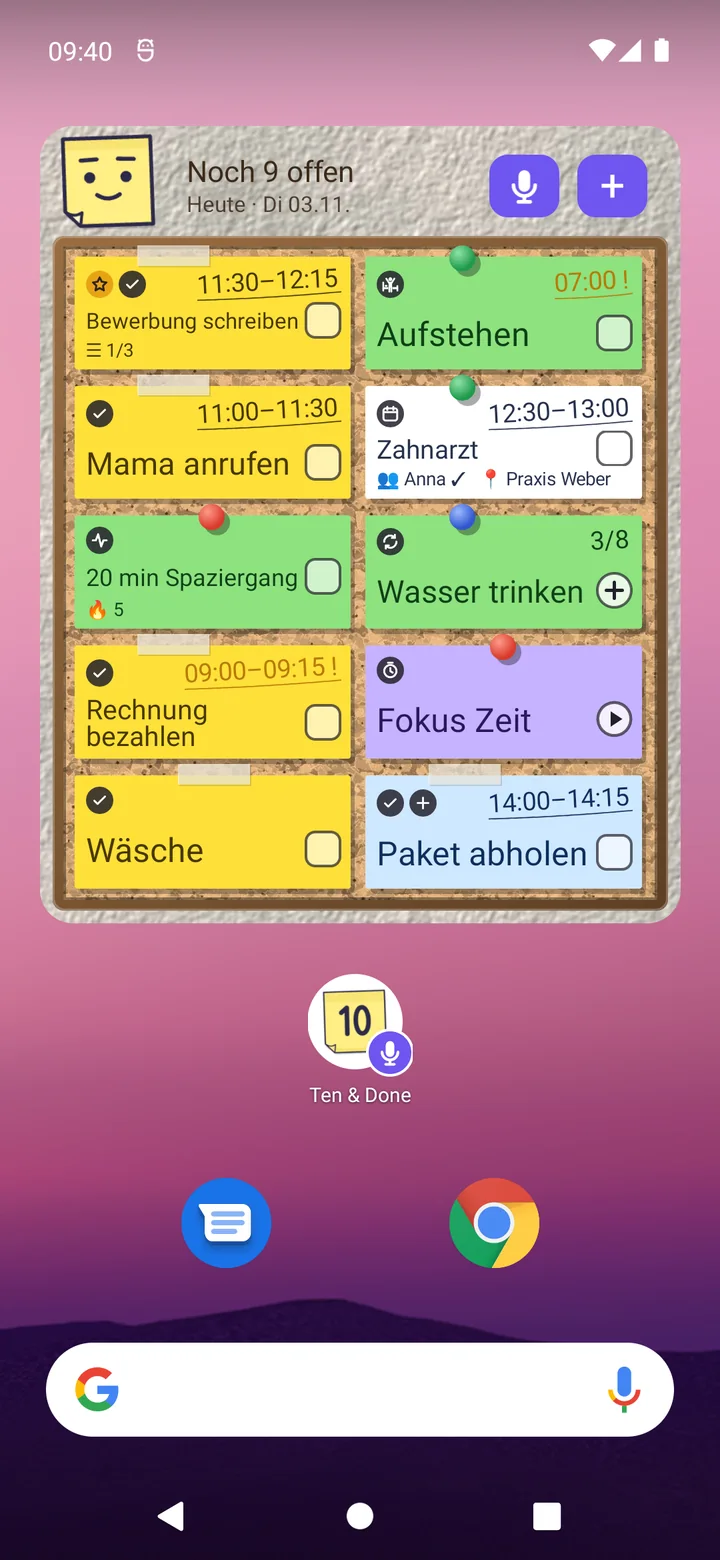
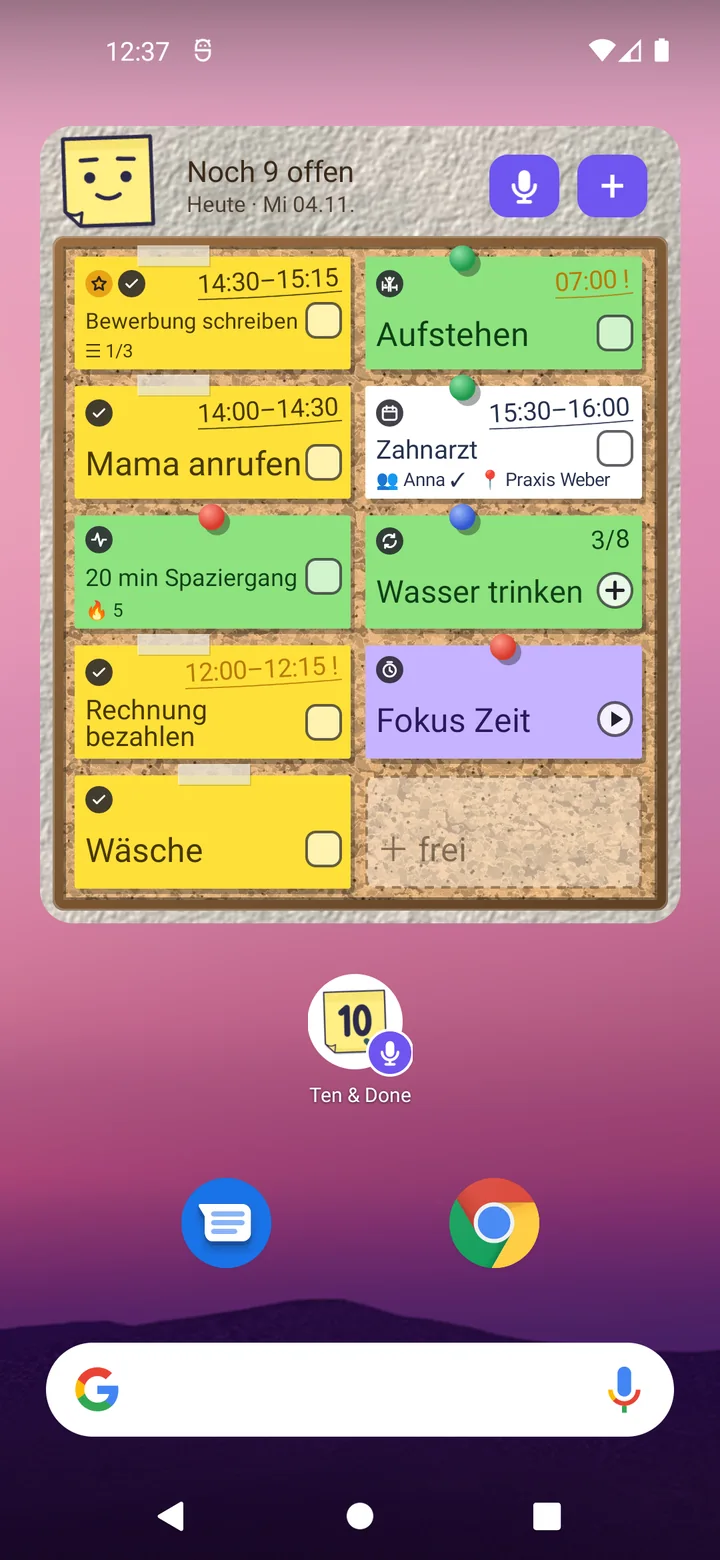
Mikrofon-Satz fuer Android und iPhone, Widget-Bilder ohne Extra, Schriftart und Farben bei den Stilen

diff --git a/index.html b/index.html
@@ -53,7 +53,7 @@
     { "@type": "Question", "name": "Warum genau zehn Aufgaben am Tag?", "acceptedAnswer": { "@type": "Answer", "text": "Weil eine Liste ohne Ende nie fertig wird. Zehn Plätze geben jedem Tag dasselbe Ziel: Zehn von zehn heißt fertig. Zehn passen auf einen Bildschirm, alles andere wartet auf dem Parkplatz, und die Zettel dürfen so klein sein, wie es dir heute passt." } },
     { "@type": "Question", "name": "Kostet Ten & Done etwas?", "acceptedAnswer": { "@type": "Answer", "text": "Der Kern ist frei: 10 Aufgaben am Tag, Gewohnheiten, Fokus Zeit, Kalender, Listen, Notizen, Widget und der Fortschritt der Woche. Premium gibt es als Jahresabo oder zum einmaligen Kauf." } },
     { "@type": "Question", "name": "Brauche ich ein Konto?", "acceptedAnswer": { "@type": "Answer", "text": "Nein. Keine Anmeldung, keine E-Mail-Adresse. Alles liegt auf deinem Handy, die App funktioniert offline." } },
-    { "@type": "Question", "name": "Gibt es ein Widget?", "acceptedAnswer": { "@type": "Answer", "text": "Ja. Das Brett-Widget zeigt deinen Tagesplan auf dem Startbildschirm, dort kannst du auch abhaken. Auf Android-Handys nimmt ein kleines Widget neue Aufgaben per Sprache auf." } },
+    { "@type": "Question", "name": "Gibt es ein Widget?", "acceptedAnswer": { "@type": "Answer", "text": "Ja. Das Brett-Widget zeigt deinen Tagesplan auf dem Startbildschirm, dort kannst du auch abhaken. Übers Mikrofon im Widget sprichst du neue Aufgaben ein." } },
     { "@type": "Question", "name": "Gibt es Ten & Done für Android und iPhone?", "acceptedAnswer": { "@type": "Answer", "text": "Ja. Ten & Done gibt es für Android-Handys und -Tablets und für iPhone und iPad." } }
   ]
 }
@@ -143,7 +143,7 @@
         <p>Aufgaben, Gewohnheiten, Fokus und Termine liegen auf einem Brett. Was nicht gebraucht wird, bleibt aus dem Weg.</p>
       </div>
       <div class="grid2 grid3">
-        <div class="feature wide"><span class="tag t-c" aria-hidden="true">🎙</span><div><h3>Einfach einsprechen</h3><p>Tipp aufs Mikrofon und sag, was ansteht. „Friseur am 3.11. um 13 Uhr“ wird ein Termin, „Bei Rewe Butter kaufen“ kommt auf die Einkaufsliste für Rewe und „Lena hat am 3. Mai Geburtstag“ wird ein Jahrestag. Auf Android auch ohne die App zu öffnen – mit dem Mikrofon-Widget auf dem Startbildschirm.</p></div></div>
+        <div class="feature wide"><span class="tag t-c" aria-hidden="true">🎙</span><div><h3>Einfach einsprechen</h3><p>Tipp aufs Mikrofon und sag, was ansteht. „Friseur am 3.11. um 13 Uhr“ wird ein Termin, „Bei Rewe Butter kaufen“ kommt auf die Einkaufsliste für Rewe und „Lena hat am 3. Mai Geburtstag“ wird ein Jahrestag. Am schnellsten geht es vom Startbildschirm: im Widget aufs Mikrofon tippen und lossprechen.</p></div></div>
         <div class="feature"><span class="tag t-a" aria-hidden="true">10</span><div><h3>Zehn Plätze, ein Versprechen an dich</h3><p>Der elfte Gedanke muss warten. Ein Zettel ist dein Top-Thema. Du sagst fest zu, indem du den Knopf gedrückt hältst.</p></div></div>
         <div class="feature"><span class="tag t-b" aria-hidden="true">↻</span><div><h3>Gewohnheiten-Tracker</h3><p>Sport, Wasser trinken, kein Handy im Bett: Gewohnheiten erscheinen an ihren Tagen von selbst. Mit Strichliste und Serie.</p></div></div>
         <div class="feature"><span class="tag t-f" aria-hidden="true">⏱</span><div><h3>Fokus-Timer</h3><p>Handy umdrehen, die Fokus Zeit läuft. Auf Android ist „Nicht stören“ an, bis du es wieder hochnimmst. Auf dem iPhone zeigt der Sperrbildschirm die Restzeit.</p></div></div>
@@ -152,7 +152,7 @@
         <div class="feature"><span class="tag t-a" aria-hidden="true">☰</span><div><h3>Einkaufsliste, Notizen, Checklisten</h3><p>Einkaufslisten, Notizen oder Checklisten auch per Sprache eingeben und an einen Zettel anhängen, ausdrucken oder per WhatsApp teilen.</p></div></div>
         <div class="feature"><span class="tag t-c" aria-hidden="true">⛰</span><div><h3>Große Brocken in Schritten</h3><p>Ist dir etwas zu groß, teilst du es in drei bis fünf kleine Schritte. Der letzte Schritt ist der Gipfel.</p></div></div>
         <div class="feature"><span class="tag t-a" aria-hidden="true">P</span><div><h3>Ein Parkplatz für alles andere</h3><p>Alles darf auf die Liste – aufs Brett kommen nur zehn. Der Rest wartet auf dem Parkplatz. Sonntags erinnert Tack dich an das, was dort schon lange steht.</p></div></div>
-        <div class="feature"><span class="tag t-f" aria-hidden="true">▦</span><div><h3>Widget für den Startbildschirm</h3><p>Dein Tagesplan im Stil deines Bretts. Abhaken, ohne die App zu öffnen. Auf Android nimmt ein kleines Widget neue Aufgaben per Sprache auf.</p></div></div>
+        <div class="feature"><span class="tag t-f" aria-hidden="true">▦</span><div><h3>Widget für den Startbildschirm</h3><p>Dein Tagesplan im Stil deines Bretts. Abhaken, ohne die App zu öffnen. Und übers Mikrofon neue Aufgaben einsprechen.</p></div></div>
       </div>
     </div>
   </section>
@@ -204,7 +204,7 @@
           <figcaption><h3>Checkliste am Zettel</h3><span>Untertitel und Liste direkt an der Aufgabe. Abhaken, ergänzen, mitnehmen auf morgen.</span></figcaption>
         </figure>
         <figure>
-          <img src="img/widget_kork.webp" width="720" height="1560" loading="lazy" alt="Startbildschirm eines Android-Handys mit dem Brett-Widget im Kork-Stil: zehn Zettel mit Uhrzeit und Kästchen zum Abhaken, oben Mikrofon und Plus. Darunter das kleine Widget mit Mikrofon.">
+          <img src="img/widget_kork.webp" width="720" height="1560" loading="lazy" alt="Startbildschirm eines Android-Handys mit dem Brett-Widget im Kork-Stil: neun Zettel mit Uhrzeit und Kästchen zum Abhaken und ein freier Platz, oben Mikrofon und Plus. Darunter das kleine Widget mit Mikrofon.">
           <figcaption><h3>Das Widget</h3><span>Dein Tagesplan auf dem Startbildschirm, im Stil deines Bretts. Abhaken, hochzählen, Fokus Zeit starten – ohne die App zu öffnen. Darunter das kleine Widget für Android: Mikrofon antippen und lossprechen.</span></figcaption>
         </figure>
         <figure>
@@ -226,7 +226,7 @@
       <div class="head">
         <span class="eyebrow">Stile</span>
         <h2>Dein Brett, dein Stil</h2>
-        <p>Korkwand, Leinen, Whiteboard, Fenster mit oder ohne Rahmen, Bento, Glas &amp; Glow, Editorial, Klar als ruhige Liste nach Uhrzeit oder Einfach mit großer Schrift. Dazu ein Spruch, ein Foto und kleine Accessoires. Hell und dunkel.</p>
+        <p>Korkwand, Leinen, Whiteboard, Fenster mit oder ohne Rahmen, Bento, Glas &amp; Glow, Editorial, Klar als ruhige Liste nach Uhrzeit oder Einfach mit großer Schrift. Schriftart und Farben wählst du selbst. Dazu ein Spruch, ein Foto und kleine Accessoires. Hell und dunkel.</p>
       </div>
       <div class="styles">
         <figure><picture><img src="img/brett.webp" width="720" height="1560" loading="lazy" alt="Stil Kork: bunte Zettel mit Nadeln an einer Korkwand im Holzrahmen."></picture><figcaption><b>Kork</b><span class="say-style">Grober Kork im Holzrahmen, Handschrift, Nadeln und Klebeband.</span></figcaption></figure>
@@ -359,7 +359,7 @@
         </details>
         <details>
           <summary>Gibt es ein Widget?</summary>
-          <p>Ja. Das Brett-Widget zeigt deinen Tagesplan auf dem Startbildschirm, im Stil deines Bretts. Dort kannst du auch abhaken. Auf Android-Handys nimmt ein kleines Widget neue Aufgaben per Sprache auf.</p>
+          <p>Ja. Das Brett-Widget zeigt deinen Tagesplan auf dem Startbildschirm, im Stil deines Bretts. Dort kannst du auch abhaken. Übers Mikrofon im Widget sprichst du neue Aufgaben ein.</p>
         </details>
         <details>
           <summary>Sieht die App meinen Kalender?</summary>

diff --git a/en/index.html b/en/index.html
@@ -52,7 +52,7 @@
     { "@type": "Question", "name": "Why exactly ten tasks a day?", "acceptedAnswer": { "@type": "Answer", "text": "Because a list with no end is never finished. Ten spots give every day the same goal: ten out of ten means done. Ten fit on one screen, everything else waits in the parking spot, and notes can be as small as today allows." } },
     { "@type": "Question", "name": "Does Ten & Done cost anything?", "acceptedAnswer": { "@type": "Answer", "text": "The core is free: 10 tasks a day, habits, Focus Time, calendar, lists, notes, widget and the progress of your week. Premium is a yearly subscription or a one-time purchase." } },
     { "@type": "Question", "name": "Do I need an account?", "acceptedAnswer": { "@type": "Answer", "text": "No. No sign-up, no email address. Everything stays on your phone, and the app works offline." } },
-    { "@type": "Question", "name": "Is there a widget?", "acceptedAnswer": { "@type": "Answer", "text": "Yes. The board widget shows your daily plan on your home screen, and you can check things off right there. On Android phones, a small widget adds new tasks by voice." } },
+    { "@type": "Question", "name": "Is there a widget?", "acceptedAnswer": { "@type": "Answer", "text": "Yes. The board widget shows your daily plan on your home screen, and you can check things off right there. Tap the mic in the widget to add new tasks by voice." } },
     { "@type": "Question", "name": "Is Ten & Done available for Android and iPhone?", "acceptedAnswer": { "@type": "Answer", "text": "Yes. Ten & Done is available for Android phones and tablets and for iPhone and iPad." } }
   ]
 }
@@ -142,7 +142,7 @@
         <p>Tasks, habits, focus and events on one board. Whatever you don’t need stays out of the way.</p>
       </div>
       <div class="grid2 grid3">
-        <div class="feature wide"><span class="tag t-c" aria-hidden="true">🎙</span><div><h3>Just say it</h3><p>Tap the mic and say what’s coming up. “Haircut on November 3 at 1 pm” becomes an event, “Buy milk and bread” goes on the shopping list, and “Lena’s birthday is May 3” becomes an anniversary. On Android even without opening the app – with the mic widget on your home screen.</p></div></div>
+        <div class="feature wide"><span class="tag t-c" aria-hidden="true">🎙</span><div><h3>Just say it</h3><p>Tap the mic and say what’s coming up. “Haircut on November 3 at 1 pm” becomes an event, “Buy milk and bread” goes on the shopping list, and “Lena’s birthday is May 3” becomes an anniversary. It’s quickest from your home screen: tap the mic in the widget and start talking.</p></div></div>
         <div class="feature"><span class="tag t-a" aria-hidden="true">10</span><div><h3>Ten spots, one promise to yourself</h3><p>The eleventh thought has to wait. One note is your top task. You commit by pressing and holding the button.</p></div></div>
         <div class="feature"><span class="tag t-b" aria-hidden="true">↻</span><div><h3>Habit tracker</h3><p>Exercise, drink water, no phone in bed: habits show up on their days by themselves. With a tally and a streak.</p></div></div>
         <div class="feature"><span class="tag t-f" aria-hidden="true">⏱</span><div><h3>Focus timer</h3><p>Flip your phone over and Focus Time runs. On Android, Do Not Disturb stays on until you pick it up again. On iPhone, the lock screen shows the time left.</p></div></div>
@@ -151,7 +151,7 @@
         <div class="feature"><span class="tag t-a" aria-hidden="true">☰</span><div><h3>Shopping list, notes, checklists</h3><p>Enter shopping lists, notes or checklists by voice too, attach them to a note, print them or share them via WhatsApp.</p></div></div>
         <div class="feature"><span class="tag t-c" aria-hidden="true">⛰</span><div><h3>Big tasks in steps</h3><p>If something feels too big, split it into three to five small steps. The last step is the summit.</p></div></div>
         <div class="feature"><span class="tag t-a" aria-hidden="true">P</span><div><h3>A parking spot for everything else</h3><p>Everything may go on the list – only ten go on the board. The rest waits in the parking spot. On Sundays Tack reminds you of what has been waiting there for a while.</p></div></div>
-        <div class="feature"><span class="tag t-f" aria-hidden="true">▦</span><div><h3>Home screen widget</h3><p>Your daily plan in the style of your board. Check things off without opening the app. On Android, a small widget adds new tasks by voice.</p></div></div>
+        <div class="feature"><span class="tag t-f" aria-hidden="true">▦</span><div><h3>Home screen widget</h3><p>Your daily plan in the style of your board. Check things off without opening the app. And tap the mic to add new tasks by voice.</p></div></div>
       </div>
     </div>
   </section>
@@ -195,7 +195,7 @@
           <figcaption><h3>Checklist on a note</h3><span>Subtitle and list right on the task. Check off, add, carry over to tomorrow.</span></figcaption>
         </figure>
         <figure>
-          <img src="../img/widget_kork_en.webp" width="720" height="1560" loading="lazy" alt="Android home screen with the board widget in cork style: ten notes with times and check boxes, microphone and plus at the top. Below it the small widget with a microphone.">
+          <img src="../img/widget_kork_en.webp" width="720" height="1560" loading="lazy" alt="Android home screen with the board widget in cork style: nine notes with times and check boxes and one free spot, microphone and plus at the top. Below it the small widget with a microphone.">
           <figcaption><h3>The widget</h3><span>Your daily plan on the home screen, in the style of your board. Check off, count up, start focus time – without opening the app. Below it the small widget for Android: tap the microphone and start talking.</span></figcaption>
         </figure>
         <figure>
@@ -215,7 +215,7 @@
       <div class="head">
         <span class="eyebrow">Styles</span>
         <h2>Your board, your style</h2>
-        <p>Cork, linen, whiteboard, window with or without a frame, Bento, Glass &amp; Glow, Editorial, Clear as a calm list by time, or Simple with large type. Add a quote, a photo and small accessories. Light and dark.</p>
+        <p>Cork, linen, whiteboard, window with or without a frame, Bento, Glass &amp; Glow, Editorial, Clear as a calm list by time, or Simple with large type. Choose your own fonts and colors. Add a quote, a photo and small accessories. Light and dark.</p>
       </div>
       <div class="styles">
         <figure><picture><img src="../img/brett_en.webp" width="720" height="1560" loading="lazy" alt="Cork style: colorful notes pinned to a cork wall in a wooden frame."></picture><figcaption><b>Cork</b><span class="say-style">Coarse cork in a wooden frame, handwriting, pins and tape.</span></figcaption></figure>
@@ -348,7 +348,7 @@
         </details>
         <details>
           <summary>Is there a widget?</summary>
-          <p>Yes. The board widget shows your daily plan on your home screen, in the style of your board, and you can check things off right there. On Android phones, a small widget adds new tasks by voice.</p>
+          <p>Yes. The board widget shows your daily plan on your home screen, in the style of your board, and you can check things off right there. Tap the mic in the widget to add new tasks by voice.</p>
         </details>
         <details>
           <summary>Can the app see my calendar?</summary>
